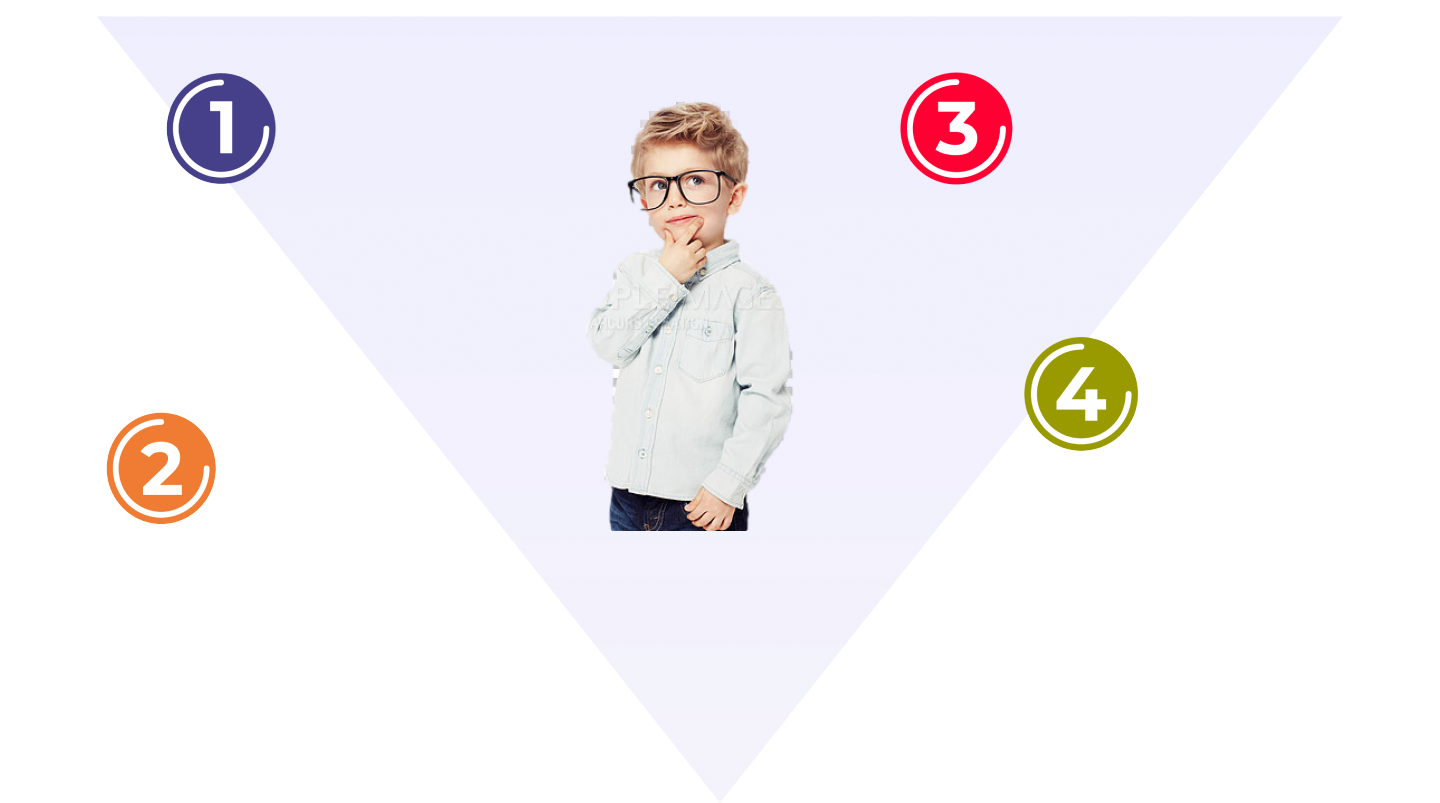
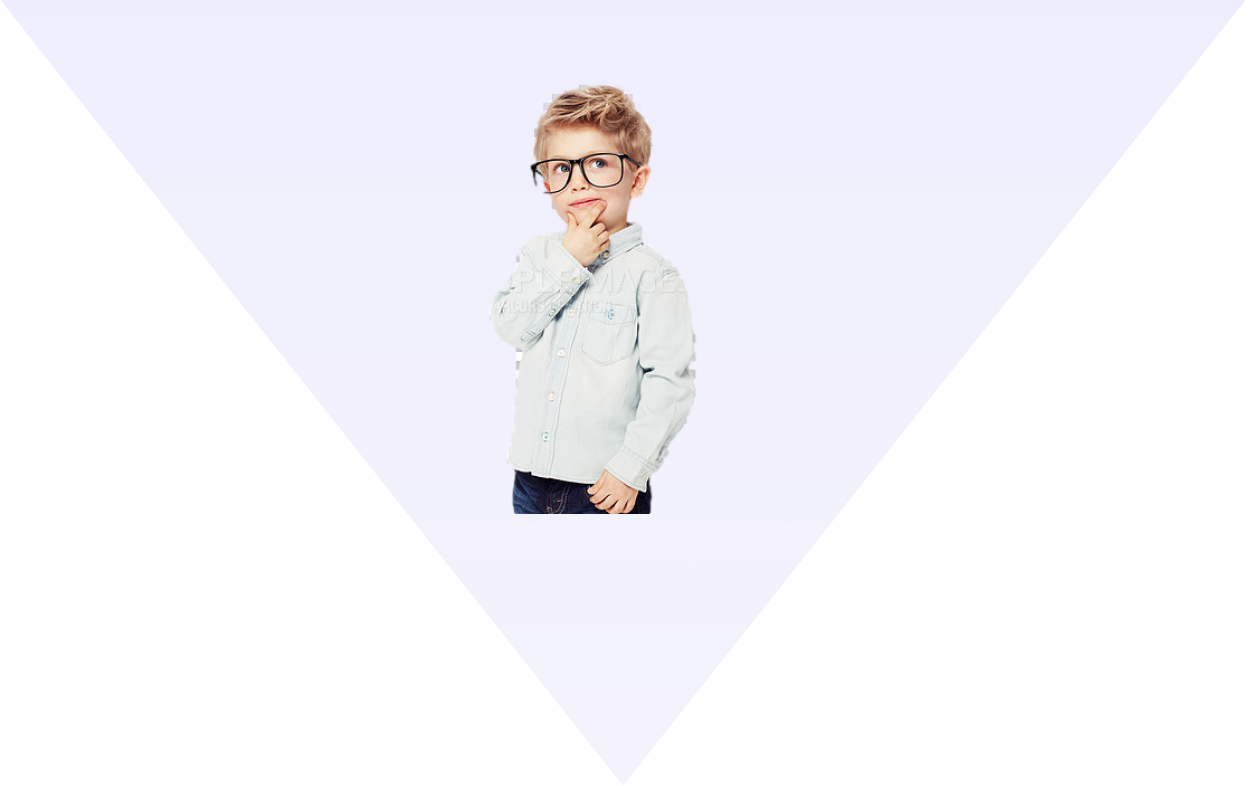
update children main

diff --git a/src/app/children-study/children-study.component.css b/src/app/children-study/children-study.component.css
@@ -4,6 +4,7 @@
     background-repeat: no-repeat;
     background-size: cover;
     padding: 0;
+    box-shadow: 0px 0.5px 6px #000000;
 }
 
 .background-container img {
@@ -23,9 +24,7 @@
     transform: translate(300px, 100px);
 }
 
-.main-container {
-    align-items: center;
-}
+
 
 .title {
     text-align: center;
@@ -36,103 +35,139 @@
     color: rgba(38, 34, 97, 1);
 }
 
-#header1 {
-    position: absolute;
-    width: 250px;
-    top: -700px;
-    left: 285px;
-    font-family: "M PLUS Rounded 1c", sans-serif;
-    font-style: normal;
-    font-weight: 500;
-    font-size: 24px;
-    color: rgba(70, 64, 138, 1);
+.main-container {
+    display: flex;
+    flex-direction: row;
+    justify-content: center;
 }
 
-#paragraph-box1 {
-    position: absolute;
-    width: 300px;
-    top: -630px;
-    left: 285px;
-    font-family: "M PLUS Rounded 1c", sans-serif;
-    font-style: normal;
-    font-weight: 300;
-    font-size: 16px;
-    color: rgb(0, 0, 0);
-}
-
-#header2 {
-    position: absolute;
-    width: 290px;
-    top: -350px;
-    left: 225px;
-    font-family: "M PLUS Rounded 1c", sans-serif;
-    font-style: normal;
-    font-weight: 500;
-    font-size: 24px;
-    color: rgba(239, 124, 50, 1);
-}
-
-#paragraph-box2 {
-    position: absolute;
-    width: 300px;
-    top: -280px;
-    left: 225px;
-    font-family: "M PLUS Rounded 1c", sans-serif;
-    font-style: normal;
-    font-weight: 300;
-    font-size: 16px;
-    color: rgb(0, 0, 0);
-}
-
-#header3 {
-    position: absolute;
-    width: 300px;
-    top: -700px;
-    left: 1020px;
-    font-family: "M PLUS Rounded 1c", sans-serif;
-    font-style: normal;
-    font-weight: 500;
-    font-size: 24px;
-    color: rgba(255, 0, 51, 1);
-}
-
-#paragraph-box3 {
-    position: absolute;
-    width: 400px;
-    top: -630px;
-    left: 1020px;
-    font-family: "M PLUS Rounded 1c", sans-serif;
-    font-style: normal;
-    font-weight: 300;
-    font-size: 16px;
-    color: rgb(0, 0, 0);
-}
-
-#header4 {
-    position: absolute;
-    width: 290px;
-    top: -370px;
-    left: 940px;
-    font-family: "M PLUS Rounded 1c", sans-serif;
-    font-style: normal;
-    font-weight: 500;
-    font-size: 24px;
-    color: rgba(153, 153, 0, 1);
-}
-
-#paragraph-box4 {
-    position: absolute;
-    width: 300px;
-    top: -300px;
-    left: 935px;
+.main-container img {
     text-align: center;
-    font-family: "M PLUS Rounded 1c", sans-serif;
-    font-style: normal;
-    font-weight: 300;
-    font-size: 16px;
-    color: rgb(0, 0, 0);
 }
 
 .content {
+    display: flex;
+    align-items: center;
     position: absolute;
+}
+
+.number_1 {
+    position: relative;
+    left: 100px;
+    top: 30px
+}
+
+
+#header1 {
+    position: relative;
+    top: -80px;
+    left: 120px;
+    font-family: "M PLUS Rounded 1c", sans-serif;
+    font-style: normal;
+    font-weight: 500;
+    color: rgba(70, 64, 138, 1);
+    font-size: 24px;
+    width: 232px;
+}
+
+#paragraph-box1 {
+    position: relative;
+    top: -80px;
+    left: 120px;
+    font-family: "M PLUS Rounded 1c", sans-serif;
+    font-style: normal;
+    font-weight: 300;
+    font-size: 16px;
+    width: 250px;
+}
+
+.number_2 {
+    position: relative;
+    left: -280px;
+    top: 350px
+}
+
+
+#header2 {
+    position: relative;
+    top: -80px;
+    left: 120px;
+    font-family: "M PLUS Rounded 1c", sans-serif;
+    font-style: normal;
+    font-weight: 500;
+    color: rgba(239, 124, 50, 1);
+    font-size: 24px;
+    width: 290px;
+}
+
+#paragraph-box2 {
+    position: relative;
+    top: -80px;
+    left: 120px;
+    font-family: "M PLUS Rounded 1c", sans-serif;
+    font-style: normal;
+    font-weight: 300;
+    font-size: 16px;
+    width: 300px;
+}
+
+.number_3 {
+    position: relative;
+    left: 200px;
+    top: 30px
+}
+
+
+#header3 {
+    position: relative;
+    top: -80px;
+    left: 120px;
+    font-family: "M PLUS Rounded 1c", sans-serif;
+    font-style: normal;
+    font-weight: 500;
+    color: rgba(255, 0, 51, 1);
+    font-size: 24px;
+    width: 300px;
+}
+
+#paragraph-box3 {
+    position: relative;
+    top: -80px;
+    left: 120px;
+    font-family: "M PLUS Rounded 1c", sans-serif;
+    font-style: normal;
+    font-weight: 300;
+    font-size: 16px;
+    width: 400px;
+}
+
+.number_4 {
+    position: relative;
+    left: -30px;
+    top: 350px;
+}
+
+
+#header4 {
+    position: relative;
+    top: -20px;
+    left: -90px;
+    font-family: "M PLUS Rounded 1c", sans-serif;
+    font-style: normal;
+    font-weight: 500;
+    color: rgba(153, 153, 0, 1);
+    font-size: 24px;
+    width: 300px;
+}
+
+#paragraph-box4 {
+    position: relative;
+    top: -20px;
+    left: -150px;
+    font-family: "M PLUS Rounded 1c", sans-serif;
+    font-style: normal;
+    font-weight: 300;
+    font-size: 16px;
+    width: 400px;
+    text-align: center;
 }

diff --git a/src/app/children-study/children-study.component.html b/src/app/children-study/children-study.component.html
@@ -1,3 +1,4 @@
+<app-navidas></app-navidas>
 <div>
     <div class='background-container'>
         <div class="text-container">
@@ -8,52 +9,65 @@
         <img src="assets/kids-main.png" alt="">
     </div>
 </div>
+<p class="title">PHƯƠNG PHÁP HỌC TIẾN ANH <br>
+    THỰC TẾ & VUI NHỘN</p>
 <div class="main-container">
-    <p class="title">PHƯƠNG PHÁP HỌC TIẾN ANH <br>
-        THỰC TẾ & VUI NHỘN</p>
-
     <img src="assets/kids.png" alt="main">
     <div class="content">
-        <div>
-            <p id="header1"> PHÁT TRIỂN TƯ DUY</p><br>
+        <div class="number_1">
+            <img src="assets/number_1.png" alt="">
+            <p id="header1"> PHÁT TRIỂN TƯ DUY</p>
             <div id="paragraph-box1">
-                Khi trí óc và cơ thể trẻ được thoải mái<br>
-                hoạt động, trẻ có thể đưa ra những<br>
-                giải pháp bất ngờ cho vấn đề bằng<br>
+                Khi trí óc và cơ thể trẻ được thoải mái
+                hoạt động, trẻ có thể đưa ra những
+                giải pháp bất ngờ cho vấn đề bằng
                 trí tưởng tượng phong phú của mình.
             </div>
         </div>
-        <div>
-            <p id="header2">TẠO CẢM HỨNG HỌC TẬP</p><br>
+        <div class="number_2">
+            <img src="assets/number_2.png" alt="">
+            <p id="header2">TẠO CẢM HỨNG HỌC TẬP</p>
             <div id="paragraph-box2">
-                Trẻ phát triển nhận thức, hành vi,<br>
-                cảm xúc và mối quan hệ xã hội.<br>
-                Từ đó, gia tăng sự linh hoạt,<br>
-                thúc đẩy tính độc lập và<br>
+                Trẻ phát triển nhận thức, hành vi,
+                cảm xúc và mối quan hệ xã hội.
+                Từ đó, gia tăng sự linh hoạt,
+                thúc đẩy tính độc lập và
                 rèn luyện kỹ năng giải quyết vấn đề.
             </div>
         </div>
-        <div>
-            <p id="header3">KHUYẾN KHÍCH SÁNG TẠO</p><br>
+        <div class="number_3">
+            <img src="assets/number_3.png" alt="">
+            <p id="header3">KHUYẾN KHÍCH SÁNG TẠO</p>
             <div id="paragraph-box3">
-                Khi trí óc và cơ thể trẻ được thoải mái hoạt động,<br>
-                trẻ có thể đưa ra những giải pháp bất ngờ cho<br>
+                Khi trí óc và cơ thể trẻ được thoải mái hoạt động,
+                trẻ có thể đưa ra những giải pháp bất ngờ cho
                 vấn đề bằng trí tưởng tượng phong phú của mình.
             </div>
         </div>
-        <div>
-            <p id="header4">TẠO CẢM HỨNG HỌC TẬP</p><br>
+        <div class="number_4">
+            <img src="assets/number_4.png" alt="">
+            <p id="header4">TẠO CẢM HỨNG HỌC TẬP</p>
             <div id="paragraph-box4">
-                Trẻ phát triển nhận thức, hành vi,<br>
-                cảm xúc và mối quan hệ xã hội.<br>
-                Từ đó, gia tăng sự linh hoạt,<br>
-                thúc đẩy tính độc lập và<br>
-                rèn luyện kỹ năng giải quyết vấn đề.
+                Các trò chơi mang tính tương tác với bạn bè giúp trẻ
+                hiểu về các mối quan hệ xã hội, xác định các giới hạn,
+                các quy tắc ứng xử, học cách chia sẻ và cảm thông,…
             </div>
         </div>
     </div>
 </div>
 <div class="end-container">
     <p class="title">HỆ THỐNG GIÁO DỤC</p>
-
+    <img src="assets/main-kids.png" alt="main-kids">
+    <div>
+        <div class="box1">
+            <p class="header-end">KẾT HỢP KIẾN THỨC <br>& CHỦ ĐỀ THỰC TẾ</p>
+            <div class="paragraph-boxend">
+                Quy trình giảng dạy tích hợp<br>
+                công nghệ hiện đại, giúp trẻ<br>
+                nhanh chóng và nằm bắt<br>
+                kiến thức.
+            </div>
+        </div>
+    </div>
 </div>
+<app-bottom></app-bottom>

diff --git a/src/app/app.module.ts b/src/app/app.module.ts
@@ -11,6 +11,7 @@ import { AchievementsComponent } from './achievements/achievements.component';
 import { NavidasComponent } from './navidas/navidas.component';
 import { CourseComponent } from './course/course.component';
 import { BannerComponent } from './banner/banner.component';
+import { ChildrenStudyComponent } from './children-study/children-study.component';
 
 
 @NgModule({
@@ -24,6 +25,7 @@ import { BannerComponent } from './banner/banner.component';
     CourseComponent,
     NavbarComponent,
     BannerComponent,
+    ChildrenStudyComponent
   ],
   imports: [
     BrowserModule,

diff --git a/src/app/app.component.html b/src/app/app.component.html
@@ -1,10 +1,11 @@
 <div class="container">
-    <app-navidas></app-navidas>
+    <!-- <app-navidas></app-navidas>
     <app-banner></app-banner>
     <app-course></app-course>
     <app-registration></app-registration>
     <app-navbar [images]="images"></app-navbar>
-    <app-achievements></app-achievements> -->
+    <app-achievements></app-achievements> 
+    
+    <app-bottom></app-bottom>-->
     <app-children-study></app-children-study>
-    <app-bottom></app-bottom>
 </div>
